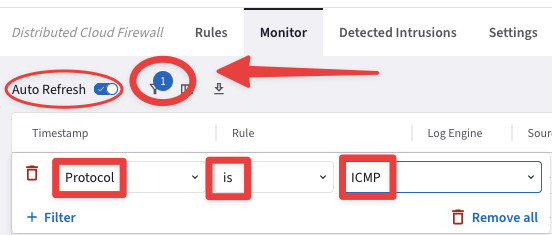
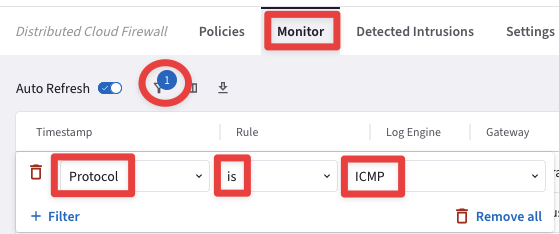
update for pro

diff --git a/ace_pro/docs/lab5.md b/ace_pro/docs/lab5.md
@@ -536,7 +536,7 @@ align: center
 curl command-04
 ```
 
-### 7.3 Egress Overview
+### 7.3 Egress Analyze
 
 Navigate to **CoPilot > Security > Egress > Analyze**, and you will see the visibility of the domain hits.
 
@@ -545,7 +545,7 @@ Navigate to **CoPilot > Security > Egress > Analyze**, and you will see the visi
 height: 400px
 align: center
 ---
-Overview
+Analyze
 ```
 
 You now have comprehensive **Cloud Secure Egress observability**, including a detailed list of all domains accessed by the EC2 instance within that private subnet.
@@ -707,7 +707,7 @@ align: center
 curl command-04
 ```
 
-## 9. Monitor
+## 9. FQDN Monitor
 
 Navigate to **CoPilot > Security > Egress > FQDN Monitor (Legacy)** and from the `"VPC/VNets"` drop-down window, select the **_aws-us-east-2-spoke1 VPC_**.
 

diff --git a/ace_pro/docs/lab6.md b/ace_pro/docs/lab6.md
@@ -444,7 +444,7 @@ DCF rules
 
 ### 6.1 Move the Greenfield-Rule
 
-- Navigate to **CoPilot > Security > Distributed Cloud Firewall > Rules**, then click on Move button on the **Greenfield-Rule** entry and, choose `To Top`. Do not forget to click `"Save Draft"`.
+- Navigate to **CoPilot > Security > Distributed Cloud Firewall > Policies**, then click on Move button on the **Greenfield-Rule** entry and, choose `To Top`. Do not forget to click `"Save Draft"`.
 
 ```{figure} images/lab6-new101.png
 ---

diff --git a/ace_pro/docs/lab10.md b/ace_pro/docs/lab10.md
@@ -45,9 +45,7 @@ CostIQ Feature
 Refresh the web page, before proceeding with the next task!
 ```
 
-- Navigate to **Copilot > Monitor > CostIQ** and click on `"+ Cost Center"` and create the **AWS** Cost Center.
-
-
+- Navigate to **Copilot > Monitor > CostIQ > Cost Centers** and click on `"+ Cost Center"` and create the **AWS** Cost Center.
 
 ```{figure} images/lab9-costiq03.png
 ---
